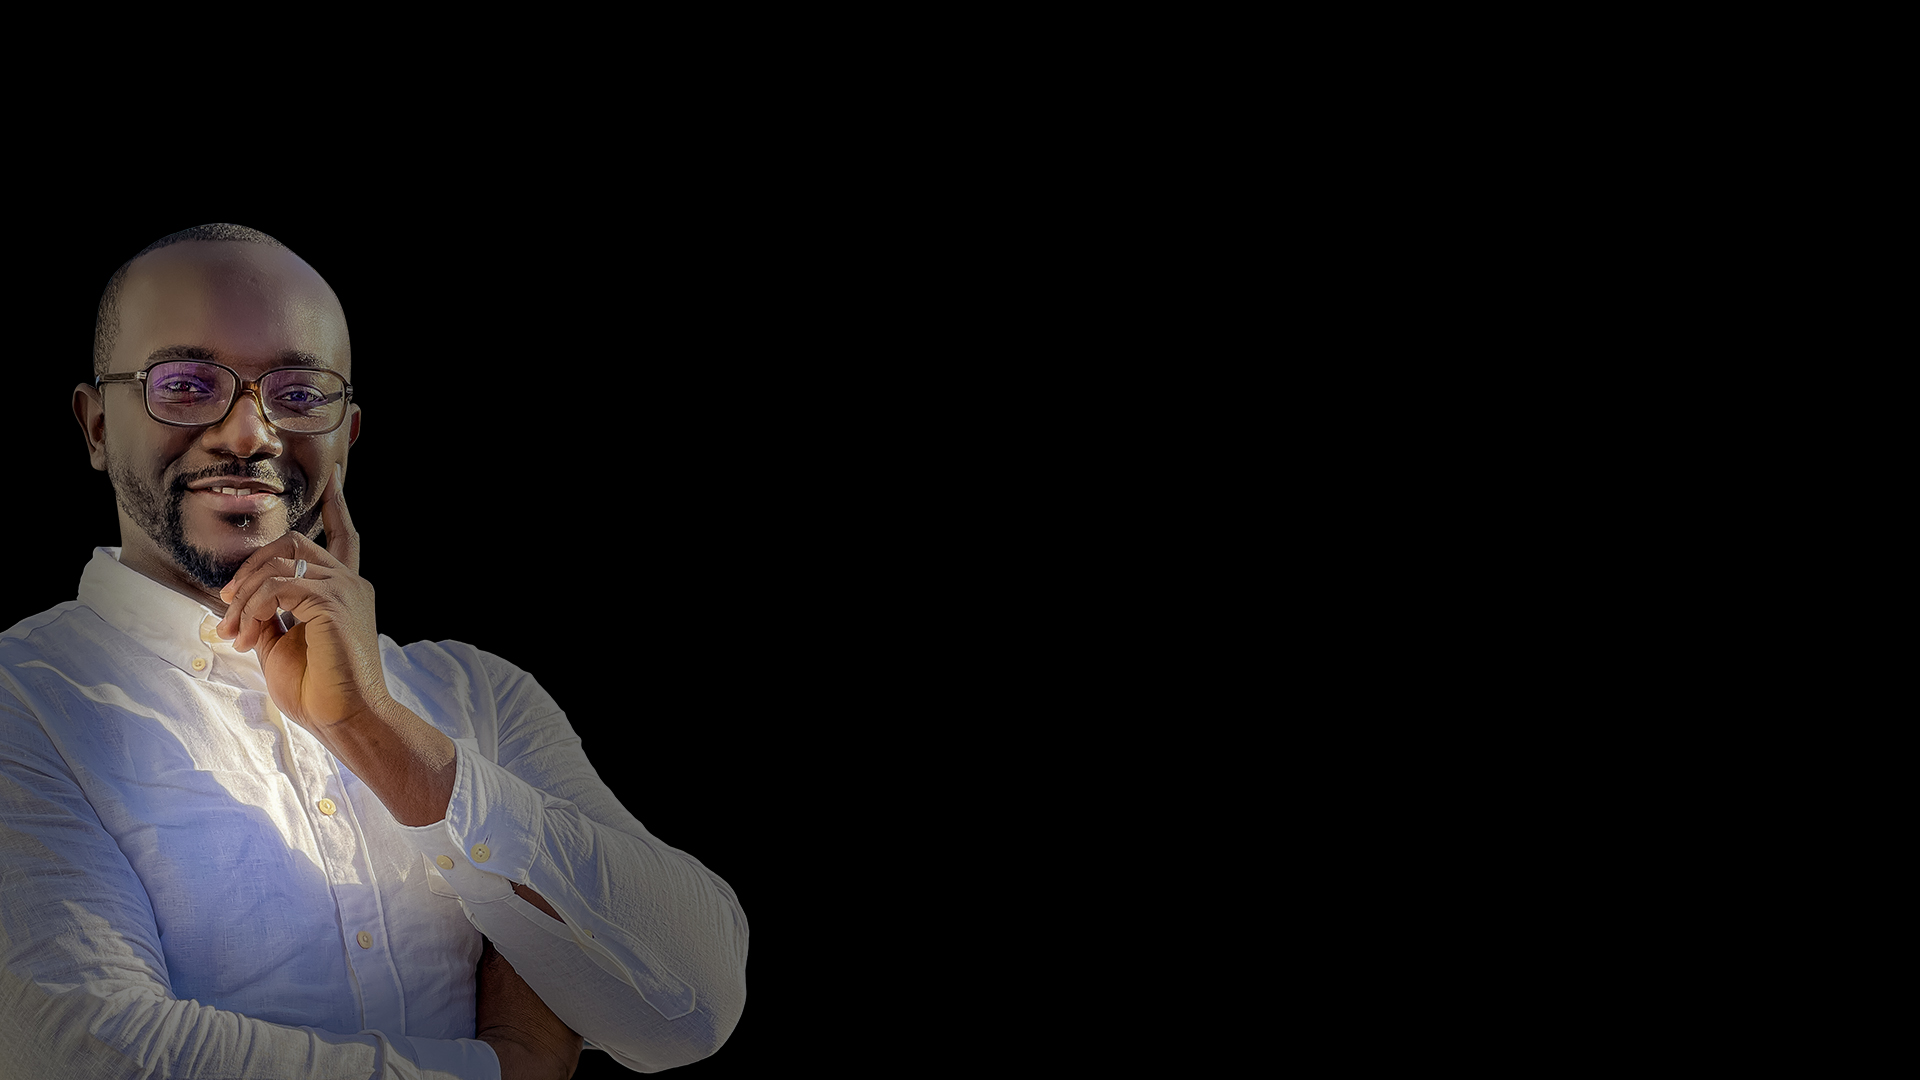
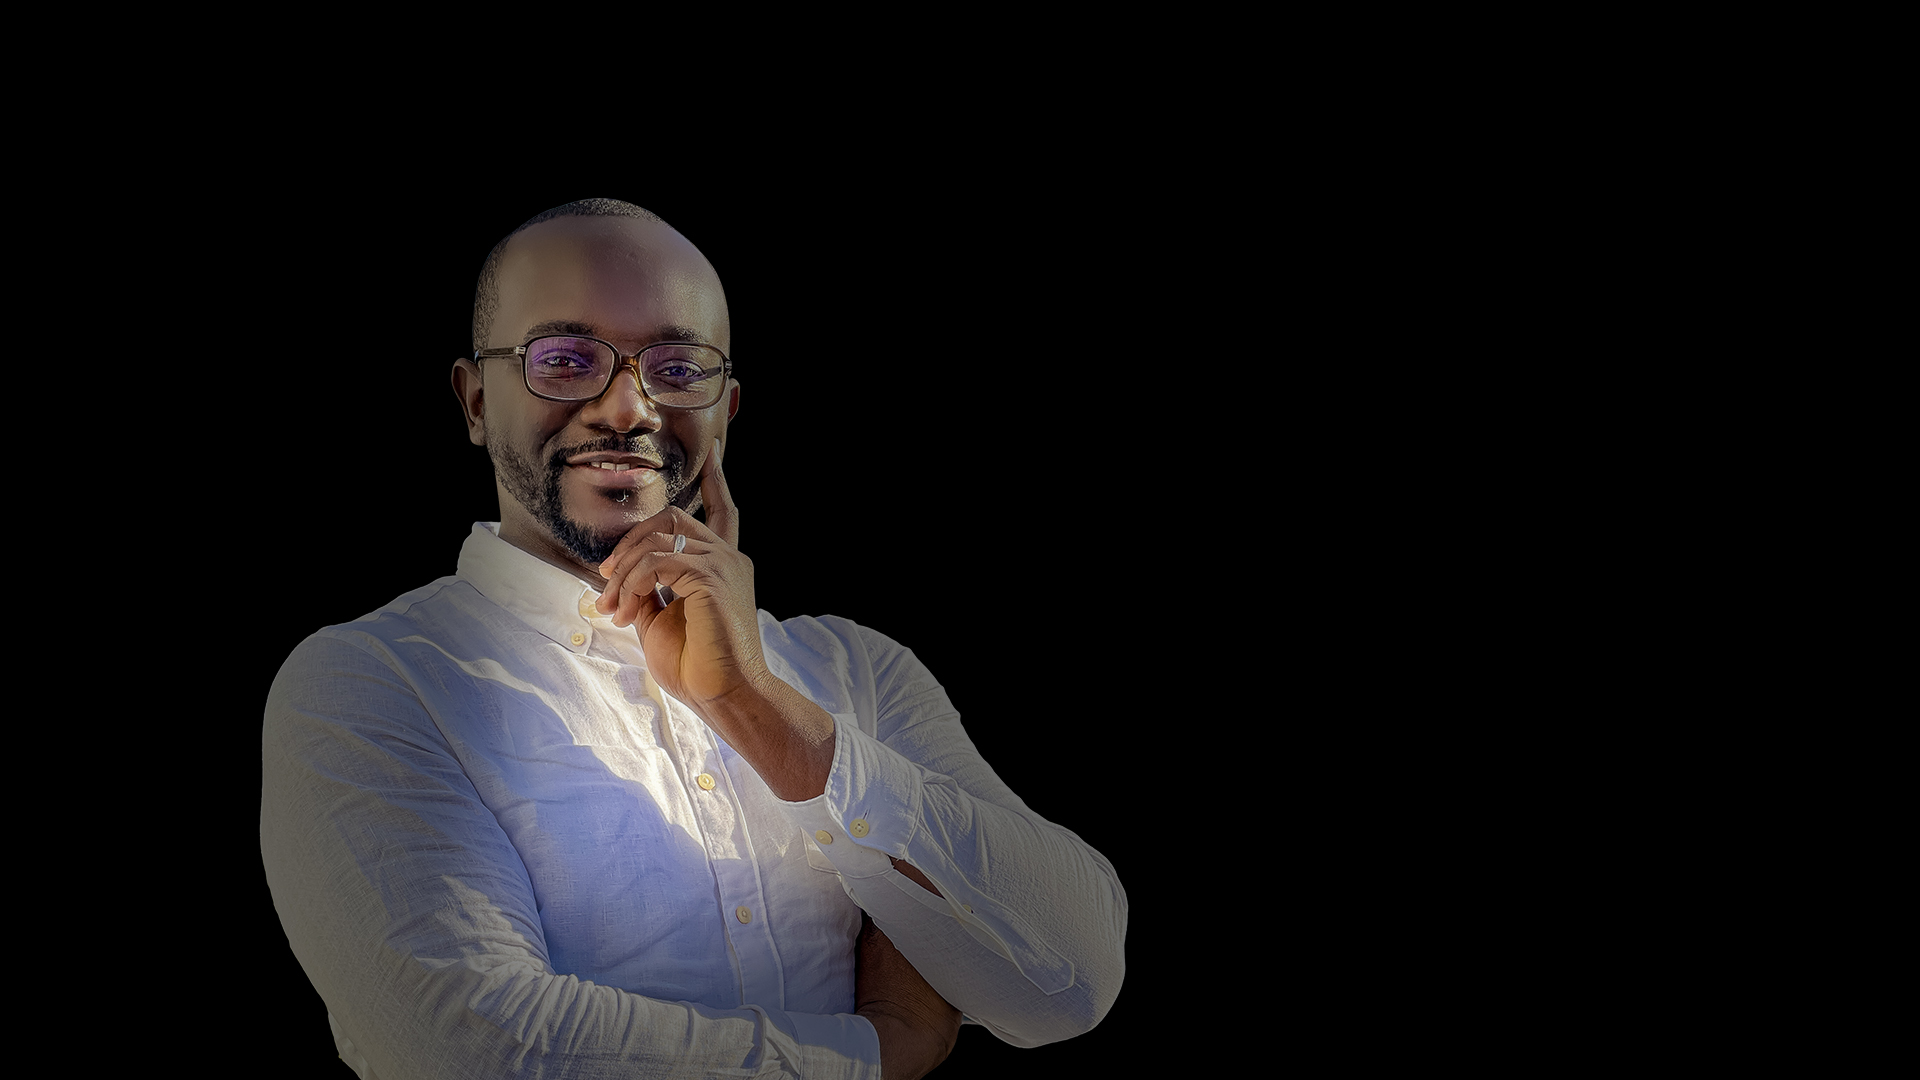
fixed all responsiveness

diff --git a/assets/css/styles.css b/assets/css/styles.css
@@ -79,7 +79,6 @@ nav {
   display: none;
 }
 
-/* get the header text class and position them on the right */
 .header-text {
   margin-top: 20%;
   font-size: 30px;
@@ -228,7 +227,7 @@ nav {
 #services {
   background-color: #000000;
   color: #ffffff;
-  padding: 70px 0 ;
+  padding: 70px 0;
 }
 
 .services-list {
@@ -247,7 +246,8 @@ nav {
   font-size: 20px;
 }
 
-.service-header, #service-header {
+.service-header,
+#service-header {
   font-size: 2rem;
   font-weight: 700;
   margin-bottom: 10px;
@@ -348,7 +348,7 @@ nav {
   margin-top: 10px;
 }
 
-.contact-details i{
+.contact-details i {
   margin-right: 15px;
   color: #dc9c03;
 }
@@ -386,7 +386,8 @@ nav {
   gap: 20px;
 }
 
-.contact-forms form input, .contact-forms form textarea {
+.contact-forms form input,
+.contact-forms form textarea {
   padding: 5px;
   border-radius: 5px;
   border: none;
@@ -406,7 +407,8 @@ nav {
 }
 
 /* placeholder */
-.contact-forms form input::placeholder, .contact-forms form textarea::placeholder {
+.contact-forms form input::placeholder,
+.contact-forms form textarea::placeholder {
   font-size: 1rem;
   font-family: "Roboto", sans-serif;
 }
@@ -459,13 +461,145 @@ nav {
     right: 5%;
     left: 5%;
     display: none;
+    z-index: 1000;
   }
 
   .nav-links.active {
     display: flex;
   }
+
+  #header {
+    width: 100%;
+    height: 100vh;
+    background: url(../images/background-2.jpg) no-repeat center center/cover;
+  }
+
+  .header-text {
+    background-color: #000000;
+    padding: 20px; 
+    position: absolute;
+    font-size: 20px;
+    color: #ffffff;
+    text-align: right;
+    right: 10%;
+    left: 10%;
+    bottom: 10%;
+    opacity: 0.8;
+  }
+  
+  .name-span {
+    font-size: 50px;
+    color: #dc9c03;
+  }
+
+  .header-text p {
+    margin-bottom: 1rem;
+  }
+
+  #aboutMe-header{
+    font-size: 2rem;
+  }
+
 }
 
 
+@media screen and (max-width: 910px) {
+  .aboutRow {
+    display: flex;
+    flex-direction: column;
+  }
+
+  .imageCol {
+    flex-basis: 100%;
+  }
+
+  .imageCol img {
+    width: 90%;
+    border-radius: 20px;
+    margin-left: 0;
+    margin-top: 20px;
+  }
+
+  .textCol {
+    flex-basis: 100%;
+    padding-left: 0;
+  }
+
+  .service {
+    padding: 30px;
+    font-size: 1rem;
+  }
+  
+  .service-header,
+  #service-header {
+    font-size: 1.5rem;
+    font-weight: 700;
+    margin-bottom: 10px;
+  }
+
+  .contactRow {
+    display: flex;
+    flex-direction: column;
+  }
+
+  .contact-info {
+    flex-basis: 100%;
+  }
+
+  .contact-forms {
+    flex-basis: 100%;
+    padding-left: 0;
+    margin-top: 40px;
+  }
+  
+}
 
 
+@media (max-width: 390px) {
+  .header-text {
+    font-size: 18px;
+  }
+
+  .name-span {
+    font-size: 40px;
+  }
+
+  #downloadBtn, #hireBtn {
+    font-size: 1rem;
+    padding: .5rem;
+  }
+
+  .imageCol img {
+    width: 100%;
+    border-radius: 10px;
+    margin-left: 0;
+    margin-top: 20px;
+  }
+
+  #aboutMe-header {
+    font-size: 2rem;
+    font-weight: 500;
+  }
+  
+  #aboutMe-text {
+    font-size: 1rem;
+    line-height: 1.4;
+    margin-bottom: 10px;
+  }
+  
+  .page-paragraph {
+    font-size: 1rem;
+    color: #dc9c03;
+    margin-bottom: 20px;
+    margin-top: 0;
+  }
+
+  .qualify-links {
+    margin-right: 20px;
+    font-size: 18px;
+    font-weight: 500;
+    color: #dc9c03;
+    cursor: pointer;
+    position: relative;
+  }
+}
